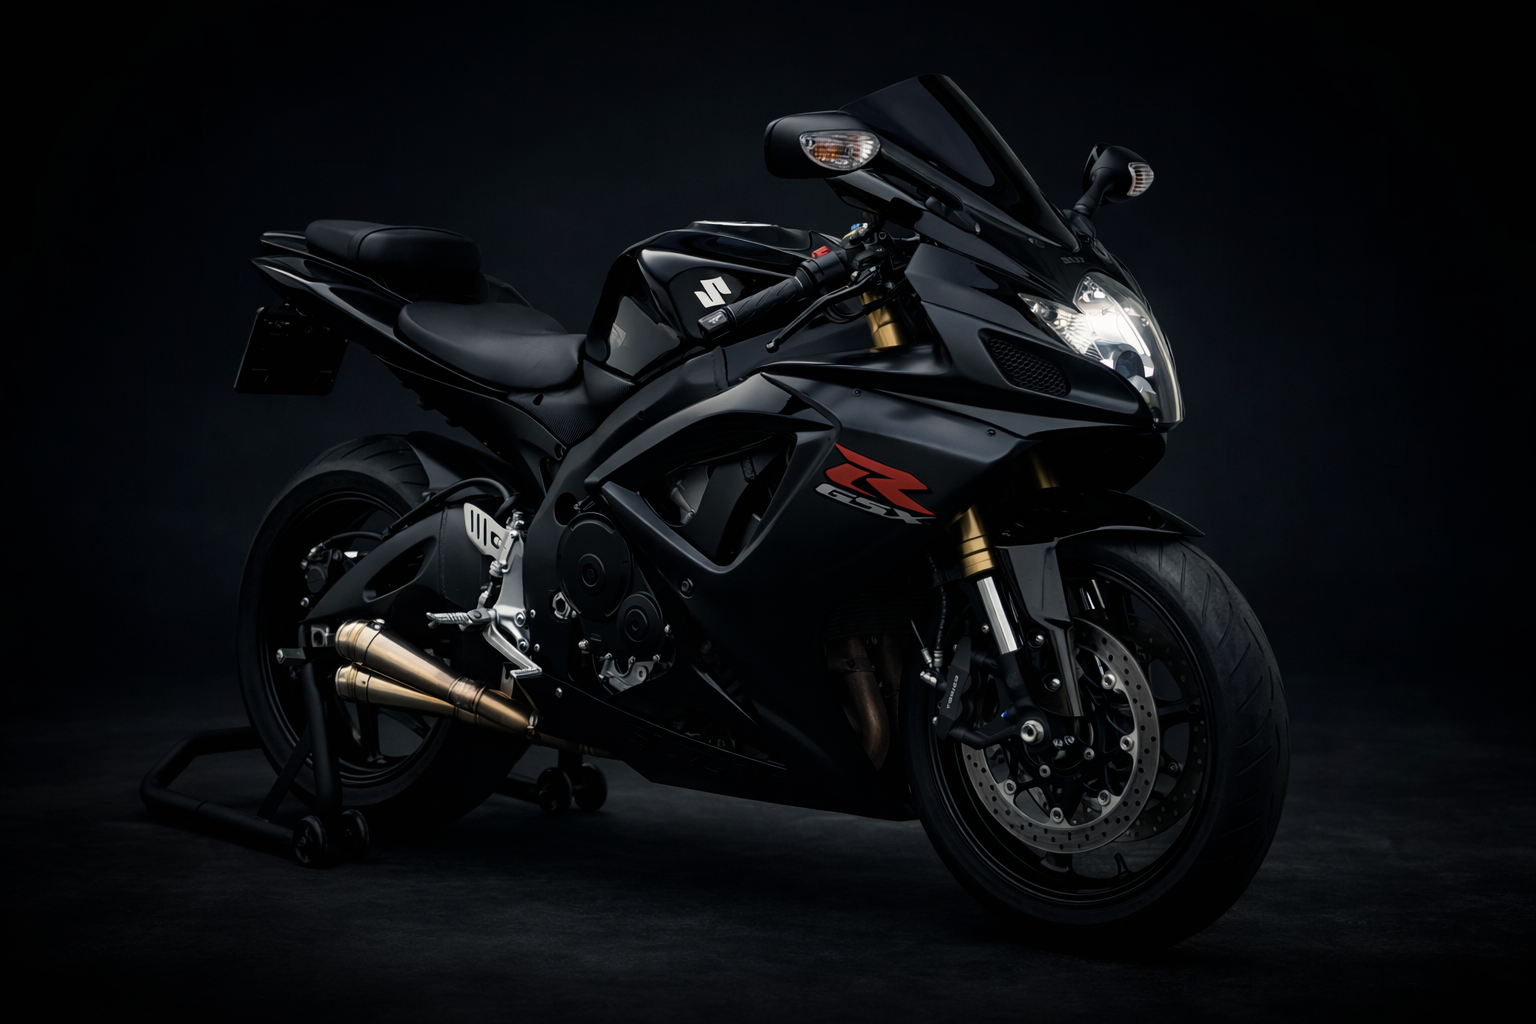
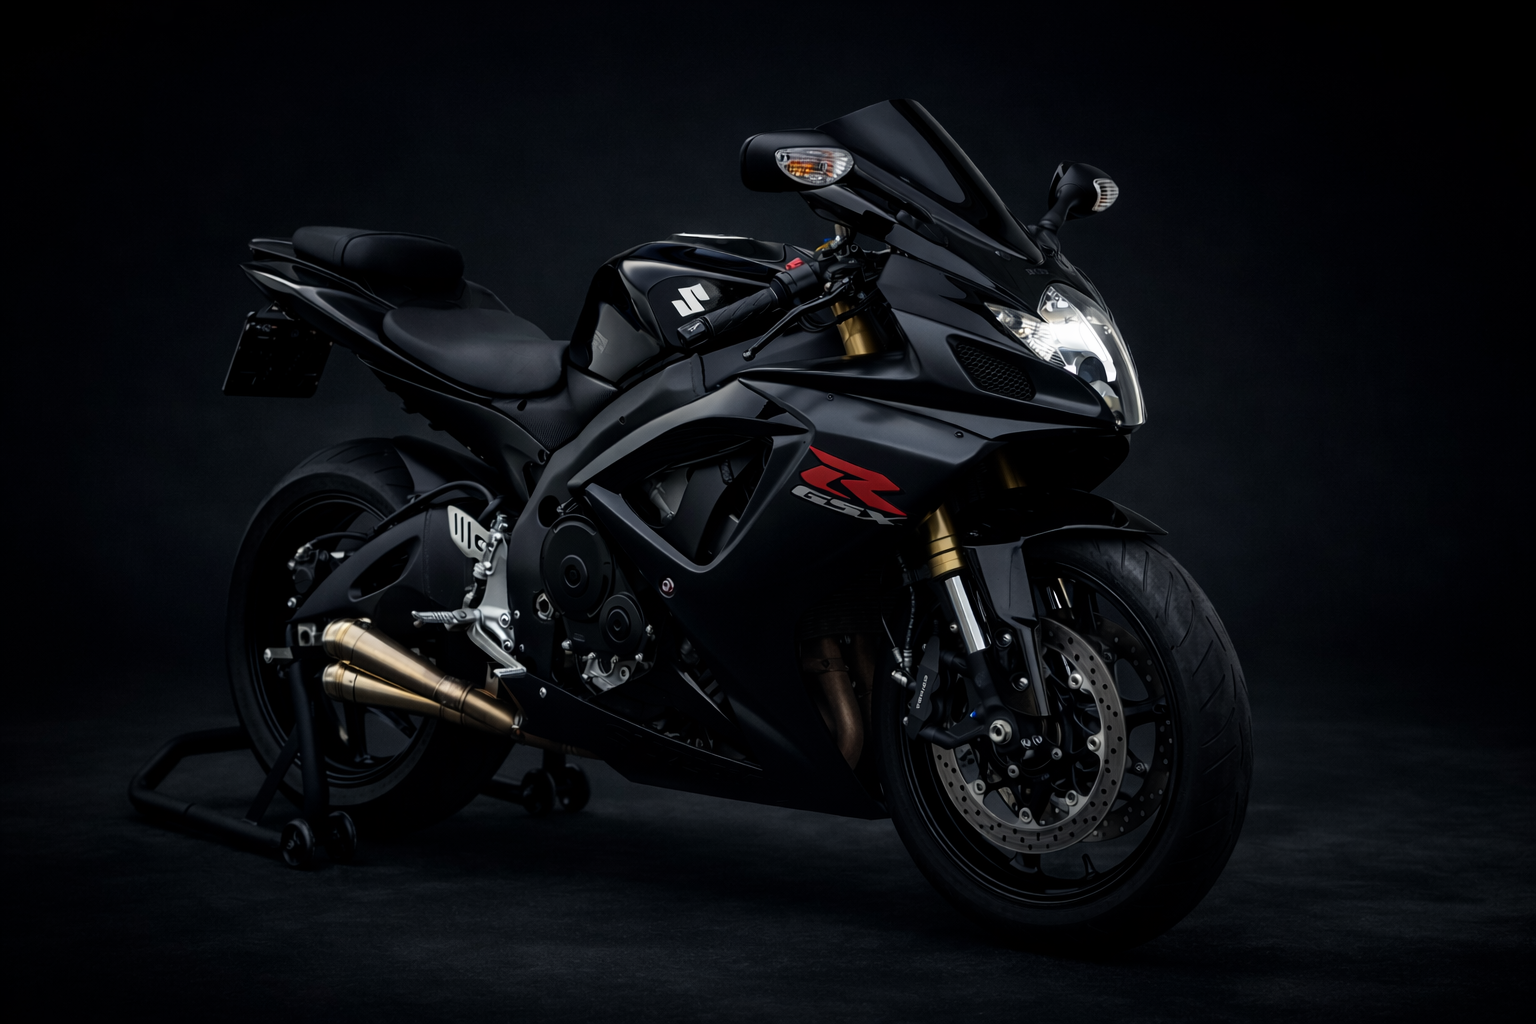
Update Suzuki hero to landscape format for better fit

diff --git a/app/(shop)/occasions/[id]/page.tsx b/app/(shop)/occasions/[id]/page.tsx
@@ -17,7 +17,7 @@ const occasionsData: Record<string, any> = {
     transmission: 'Handgeschakeld',
     fuel: 'Benzine',
     power: '125 pk',
-    image: '/suzuki-hero-studio.png',
+    image: '/suzuki-hero-landscape.png',
     images: [
       '/suzuki-gsxr-2.jpg',
       '/suzuki-gsxr-3.jpg',
